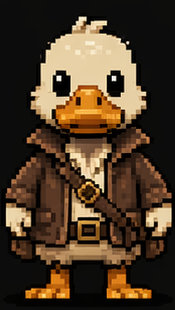
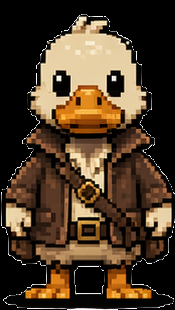
added textuers and enemy1

diff --git a/tu_es_la_canard.py b/tu_es_la_canard.py
@@ -27,10 +27,8 @@ def main():
     background_image = pygame.transform.scale(background_image, (50, 50)) # this will scale
     border_image = pygame.transform.scale(border_image, (50, 50)) # this will scale the border image to the correct size for the game.
 
-
     background = pygame.Surface(screen.get_size())
     background = background.convert()
-    border_image = pygame.image.load(os.path.join(current_dir, 'assets', 'tile_cave.png')).convert()
 
     #draw the image across the entire background, tile it to fill the screen.
     tile_width = background_image.get_width()
@@ -54,15 +52,21 @@ def main():
             background.blit(border_image, (x, y)) # draw the left border
             background.blit(border_image, (800 - border_thickness + x, y)) # draw the right border
 
-
-
     # start clock
     clock = pygame.time.Clock()
     # create one duck at the center of the screen.
     player_duck = duck( 400, 300)
     #create the an enemy
     enemy1 = Enemy(100, 100) # this will create an enemy at the top left corner of the screen.
+    enemy2 = Enemy(700, 500) # this will create an enemy at the bottom right corner of the screen.
 
+    #collision logic, when the duck collises with the enemy, the game should print "game over" and stop loop. 
+    if player_duck.rect.colliderect(enemy1.rect) or player_duck.rect.colliderect(enemy2.rect):
+        print("Game Over")
+        exit() 
+
+    
+ 
     while True:
         for event in pygame.event.get():
             if event.type == pygame.QUIT:
@@ -73,12 +77,20 @@ def main():
         keys = pygame.key.get_pressed()
         player_duck.handle_input(keys) # this function should be defined in the duck class
         enemy1.move() # this function should be defined in the enemy class to move the enemy across the screen.
+        enemy2.move() # this will move the second enemy across the screen.
         # draw everything
         screen.blit(background, (0, 0)) 
         screen.blit(player_duck.image, player_duck.rect) # this assumes the duck class has an image and rect attribute for drawing
-        screen.blit(enemy1.image, enemy1.rect) # this assumes the enemy class has an image and rect attribute for drawing
+        screen.blit(enemy1.image, enemy1.rect)
+        screen.blit(enemy2.image, enemy2.rect) # this assumes the enemy class has an image and rect attribute for drawing
         pygame.display.flip()
         clock.tick(60)  # limit to 60 frames per second
+        #collision logic, when the duck collises with the enemy, the game should print "game over" and stop loop. 
+        if player_duck.rect.colliderect(enemy1.rect) or player_duck.rect.colliderect(enemy2.rect):
+            print("Game Over")
+            exit() 
+
+
 
 if __name__ == "__main__": # this is the standard way to run the main function in Python, it checks if the script is being run directly (as the main program) and not imported as a module in another script. If this condition is true, it calls the main() function to start the game. 
     main()

diff --git a/Duck_movments.py b/Duck_movments.py
@@ -18,7 +18,7 @@ import pygame
 ASSET_FOLDER = 'assets'
 DUCK_SPEED = 5
 DUCK_SIZE = (50, 50)
-ENEMY_SIZE = (70, 70)
+ENEMY_SIZE = (50, 50)
 
 def load_duck_images():
     duck_front= pygame.image.load(f'{ASSET_FOLDER}\duck_front.png')
@@ -39,16 +39,20 @@ def load_duck_images():
         'right': duck_right,
         'left': duck_left
     }
+
 def load_enemy_images():
     enemy_fire = pygame.image.load(f'{ASSET_FOLDER}\enemy_fire.png')
     enemy_water = pygame.image.load(f'{ASSET_FOLDER}\enemy_water.png')
     enemy_rock = pygame.image.load(f'{ASSET_FOLDER}\enemy_rock.png')
-
-    ennemy_fire = pygame.transform.scale(enemy_fire, ENEMY_SIZE)
+    #scale the images so they can be defined with ENEMY_SIZE
+    enemy_fire = pygame.transform.scale(enemy_fire, ENEMY_SIZE)
+    enemy_water = pygame.transform.scale(enemy_water, ENEMY_SIZE)
+    enemy_rock = pygame.transform.scale(enemy_rock, ENEMY_SIZE)
+    
     return {
         'enemy_fire': enemy_fire,
         'enemy_water': enemy_water,
-        'enemy_rock': enemy_rock,
+        'enemy_rock': enemy_rock
     }
 
 class duck: